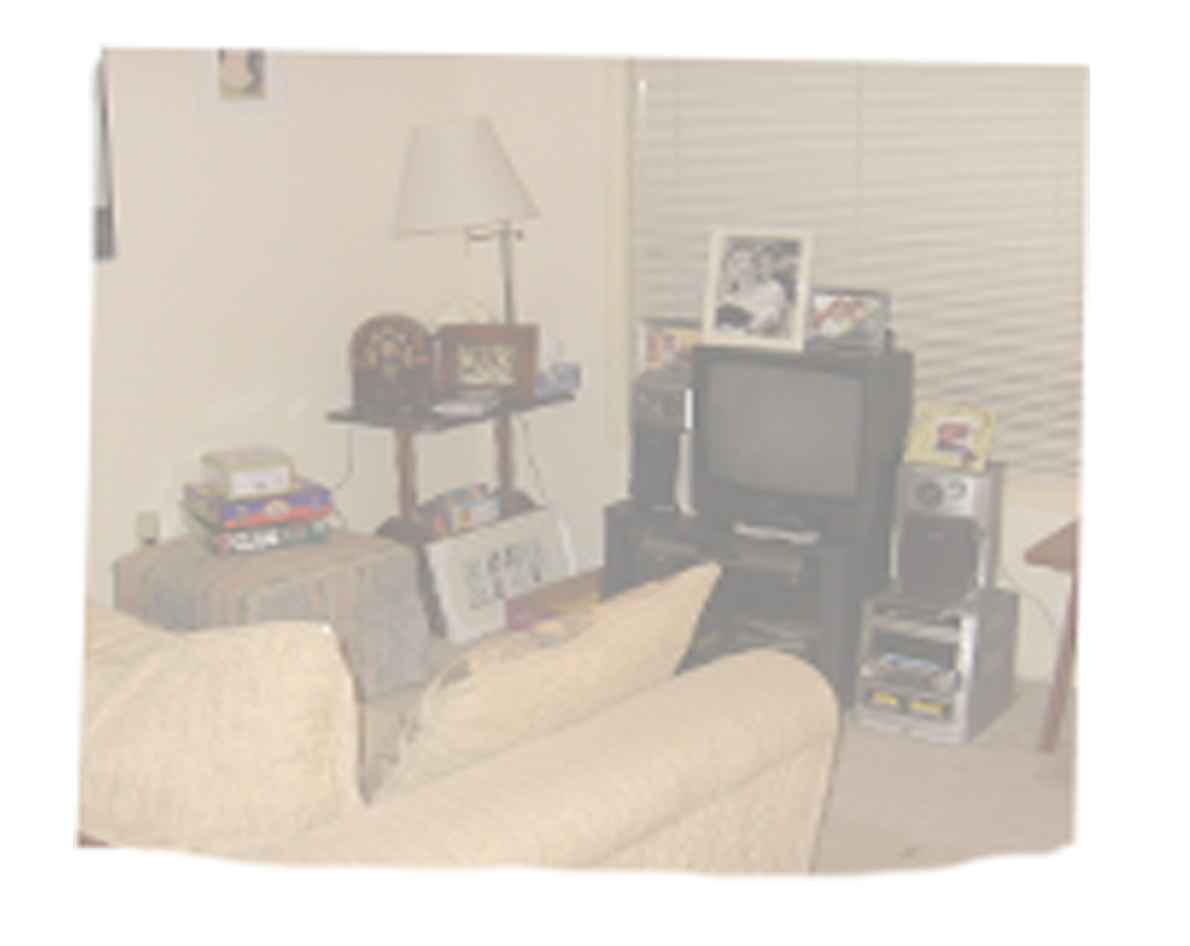
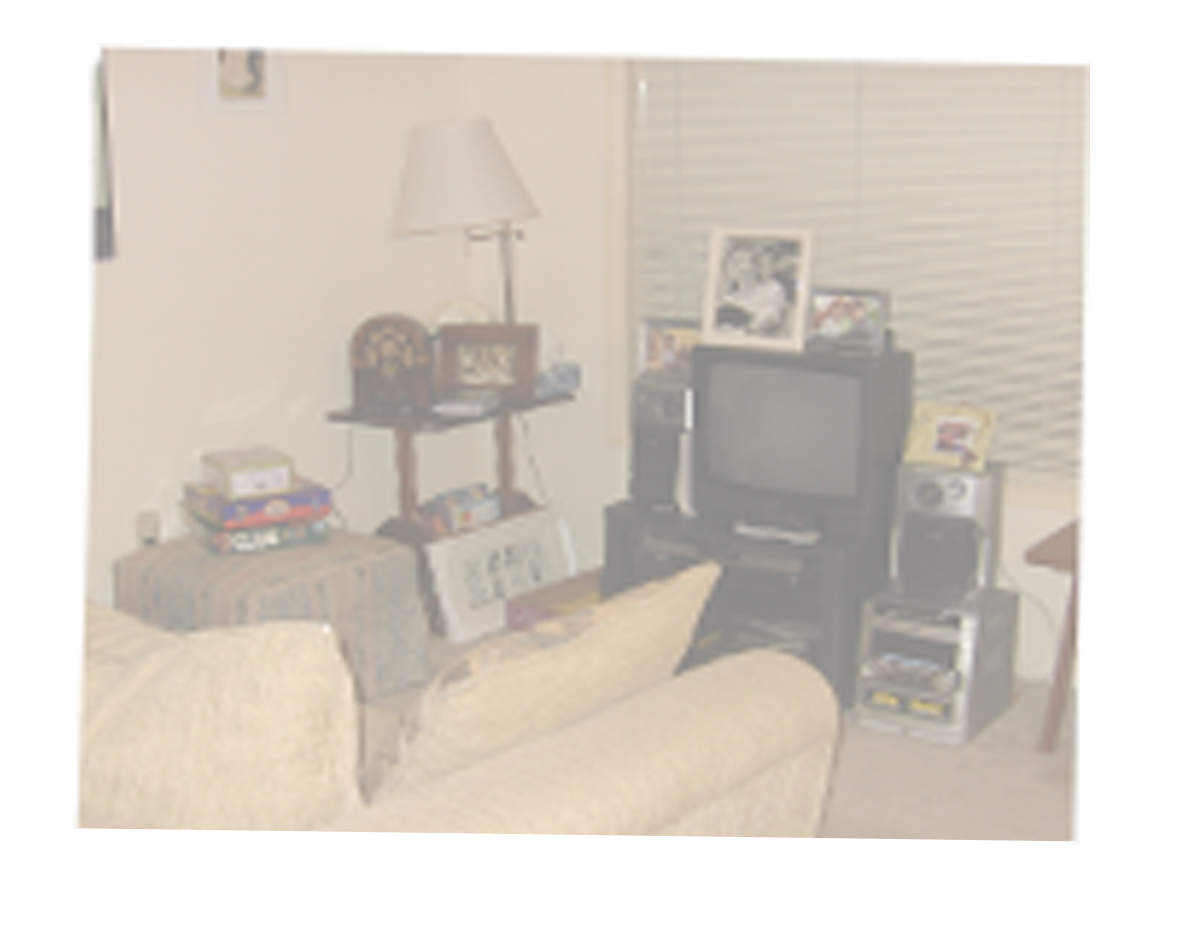
Add files via upload

Changed region(s): [[0.0622, 0.8584, 0.9017, 0.9503]]

diff --git a/style/style.css b/style/style.css
@@ -308,7 +308,7 @@ html, body {
     left: 140px;
     width: 216px;
     transform: rotate(2deg);
-    opacity: 0.3;
+    opacity: 0.5;
 }
 
 
@@ -384,7 +384,7 @@ html, body {
     top: -96px;
     left: -387px;
     width: 200px;
-    height: 167px;
+    height: 161px;
     transform: rotate(0deg);
     opacity: 0.5;
 }
